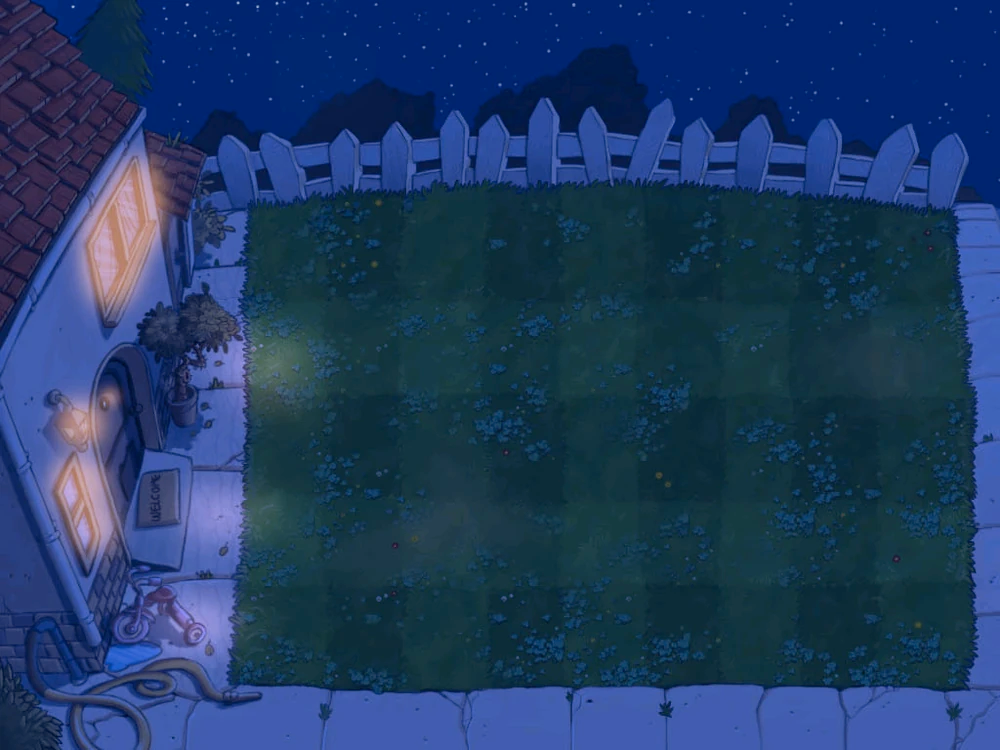
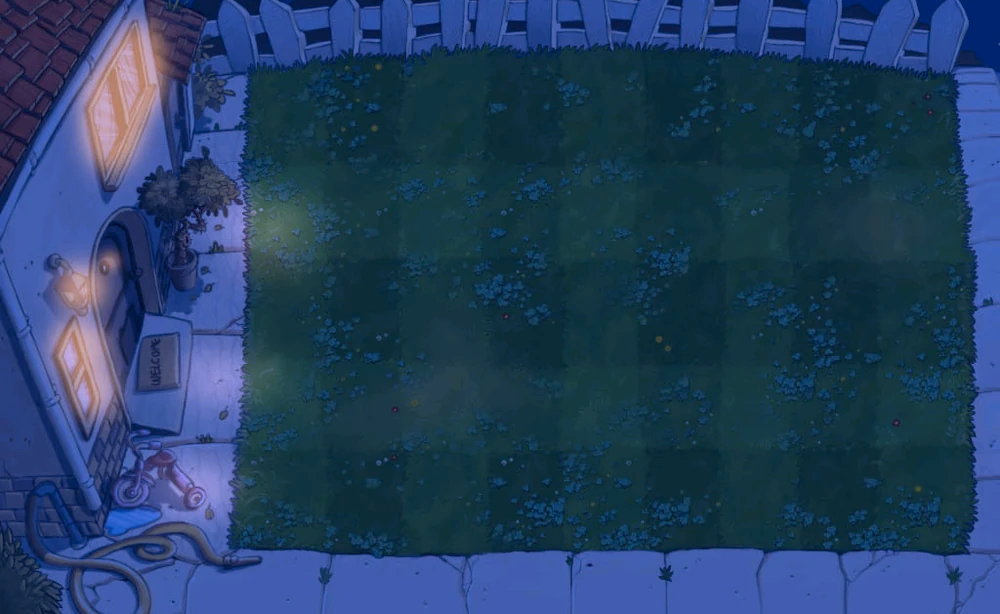
fog and planet

diff --git a/src/main/java/com/example/plantvszombie/Menu.java b/src/main/java/com/example/plantvszombie/Menu.java
@@ -31,7 +31,7 @@ public class Menu {
         plantButtons = new ArrayList<>();
         MenuPane = new AnchorPane();
         selectedPlantsNames = new ArrayList<>();
-        plantSelected = new boolean[14];
+        plantSelected = new boolean[17];
         StartGame = new Button();
         Image image2 = new Image(getClass().getResource("/startgame.png").toExternalForm());
         ImageView imageView2 = new ImageView(image2);
@@ -98,6 +98,9 @@ public class Menu {
             String name = plantNames[i];
             Image image;
             ImageView view = null;
+            if (day && (name.equals("Grave") || name.equals("plantern") || name.equals("blover"))) {
+                continue;
+            }
             if (name.equals("Sunflower")) {
                 image = new Image(getClass().getResource("/com/example/plantvszombie/sunflowerCard.png").toExternalForm());
                 view = new ImageView(image);
@@ -184,6 +187,7 @@ public class Menu {
                 view.setFitHeight(64);
                 view.setFitWidth(105);
             }
+
             Button button = new Button(name);
             button.setGraphic(view);
             button.setStyle("-fx-background-color: #fff");
@@ -196,13 +200,7 @@ public class Menu {
 
             plantButtons.add(button);
 
-            if (name.equals("Grave") && day) {
-                plantButtons.remove(button);
-            } else if (name.equals("plantern") && day) {
-                plantButtons.remove(button);
-            } else if (name.equals("blover") && day) {
-                plantButtons.remove(button);
-            }
+
 
 
             final int index = i;

diff --git a/src/main/java/com/example/plantvszombie/Yard.java b/src/main/java/com/example/plantvszombie/Yard.java
@@ -46,13 +46,22 @@ public class Yard {
     ArrayList<Planet>planets=new ArrayList<>();
     ArrayList<Zombies>Zombies=new ArrayList<>();
     Fog fog;
+    boolean day;
 
     Yard(Menu menu,boolean day) {
-        Image yar = new Image(getClass().getResourceAsStream("Frontyard.png"));
+        Image yar;
+        if(day){
+         yar = new Image(getClass().getResourceAsStream("Frontyard.png"));}
+        else{
+            yar =new Image(getClass().getResource("/Night_11zon.png").toExternalForm());
+        }
          yard = new ImageView(yar);
+        yard.setFitWidth(1024);
+        yard.setFitHeight(626);
         this.menu = menu;
         yardPane = new AnchorPane(yard);
         fog = new Fog(yardPane);
+        this.day = day;
         sunpoint.setText("☀\uFE0F"+Sun.collectedpoint);
         sunpoint.setStyle(
                 "-fx-font-size: 26px;" +
@@ -189,6 +198,7 @@ public class Yard {
         }
 
         yardPane.getChildren().add(gridPane);
+
         AnchorPane.setTopAnchor(gridPane, 60.0);
         AnchorPane.setLeftAnchor(gridPane, 245.0);
 

diff --git a/src/main/java/com/example/plantvszombie/HelloApplication.java b/src/main/java/com/example/plantvszombie/HelloApplication.java
@@ -43,8 +43,9 @@ public class HelloApplication extends Application {
     }
 
     private void play() {
-        Yard yard = new Yard(menu,menu.day);
-        Sun.fall(yard.yardPane);
+        Yard yard = new Yard(menu, menu.day);
+        if(menu.day){
+        Sun.fall(yard.yardPane);}
         ZombieWaveManger zw = new ZombieWaveManger(yard);
         zw.start();
         yard.Updatebutton();
@@ -95,7 +96,7 @@ public class HelloApplication extends Application {
         });
         menu.Night.setOnAction(e -> {
             menu.day = false;
-            //play2();
+            play2();
         });
 
     }
